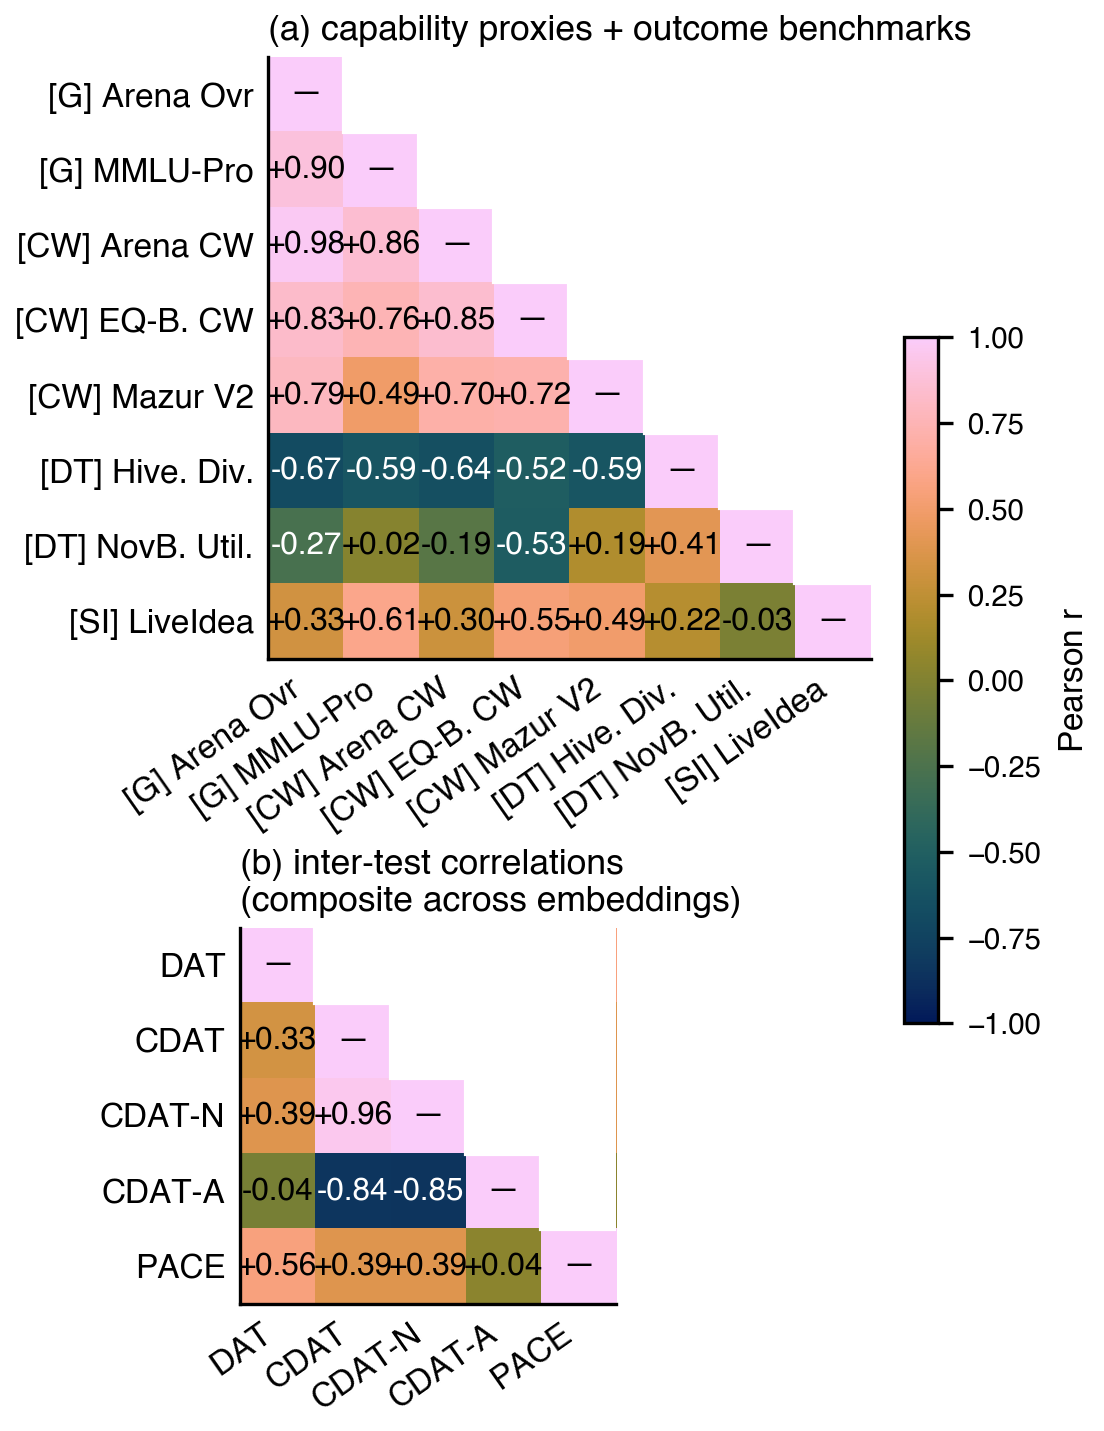
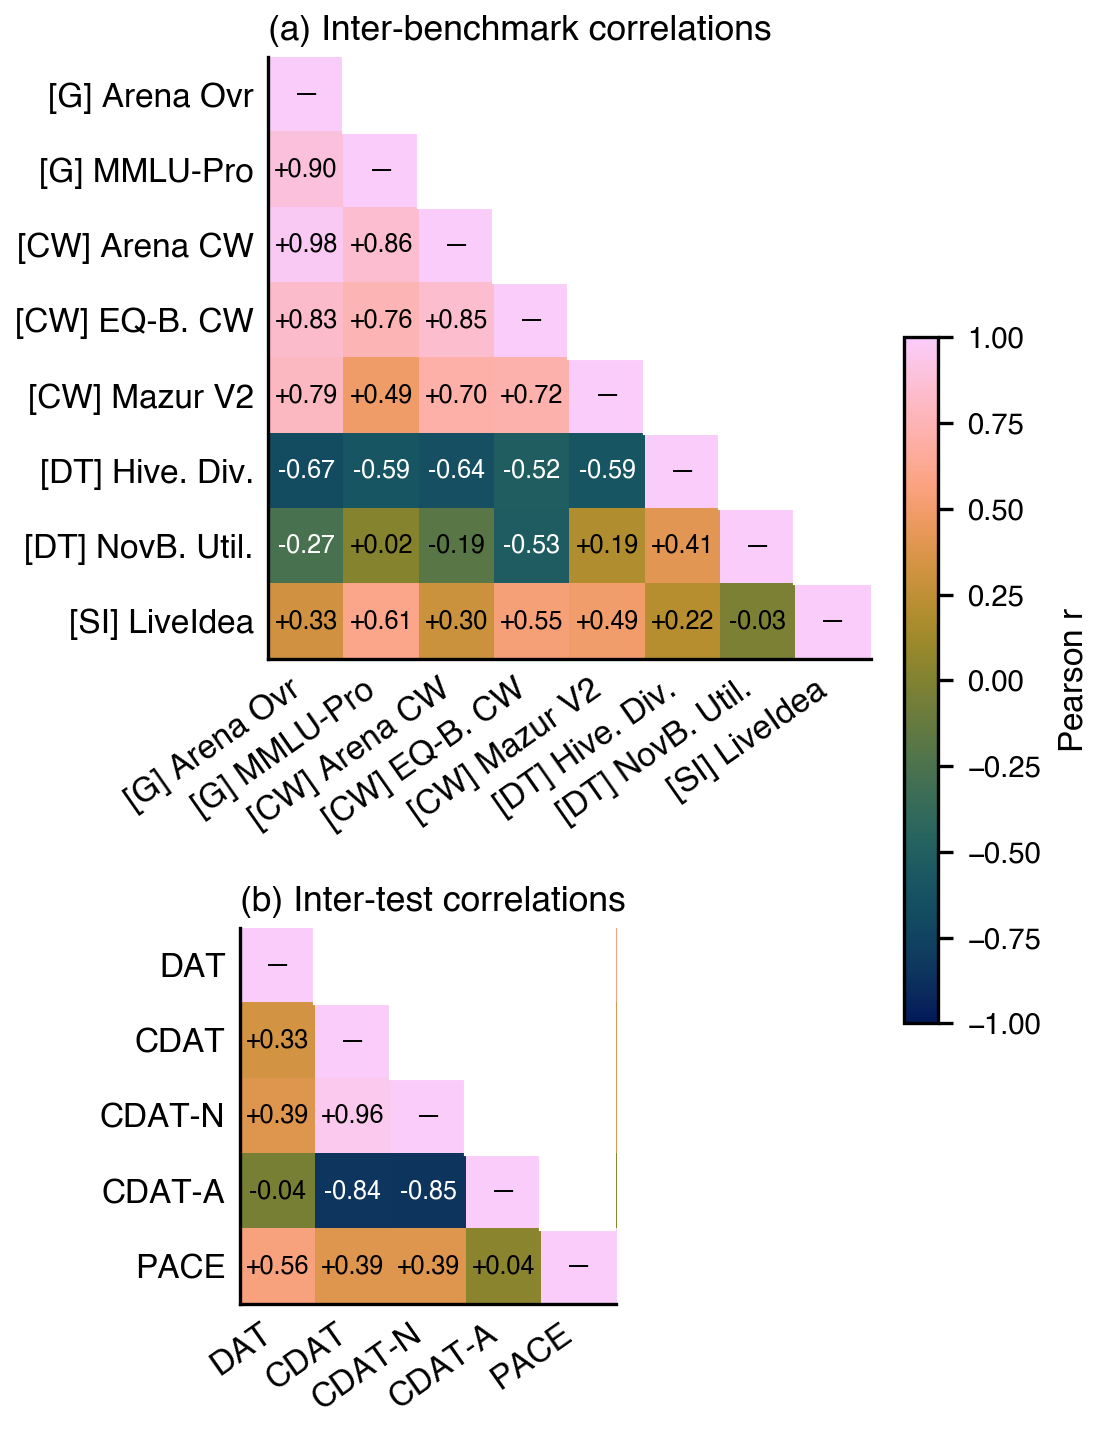
fig_benchmark_correlations: shrink cell text and rename subplot titles
Cell text 7.5pt -> 6.0pt to fit comfortably in the [SI]-augmented
panel (a). Subplot titles renamed:
  (a) "capability proxies + outcome benchmarks" -> "Inter-benchmark correlations"
  (b) "inter-test correlations (composite across embeddings)" -> "Inter-test correlations"

diff --git a/src/dat_eval/scripts/make_figures.py b/src/dat_eval/scripts/make_figures.py
@@ -939,7 +939,7 @@ def fig_benchmark_correlations(benchmarks):
                 txt = "—" if i == j else f"{v:+.2f}"
                 color = "white" if v < -0.2 else "black"
                 ax.text(j, i, txt, ha="center", va="center",
-                        fontsize=7.5, color=color, zorder=3)
+                        fontsize=6.0, color=color, zorder=3)
         ax.tick_params(axis="both", which="major", length=0)
         return im
 
@@ -955,9 +955,9 @@ def fig_benchmark_correlations(benchmarks):
     im1 = draw_triangle(ax1, mat_a, labels_a)
     draw_triangle(ax2, mat_b, labels_b)
 
-    ax1.set_title("(a) capability proxies + outcome benchmarks",
+    ax1.set_title("(a) Inter-benchmark correlations",
                    fontsize=8.5, loc="left", pad=4)
-    ax2.set_title("(b) inter-test correlations\n(composite across embeddings)",
+    ax2.set_title("(b) Inter-test correlations",
                    fontsize=8.5, loc="left", pad=4)
 
     cbar = fig.colorbar(im1, ax=[ax1, ax2], shrink=0.55, pad=0.04,
